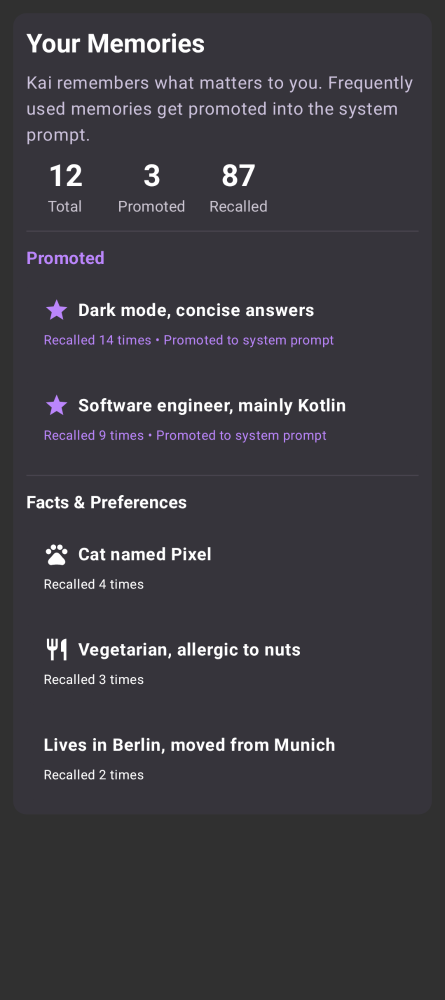
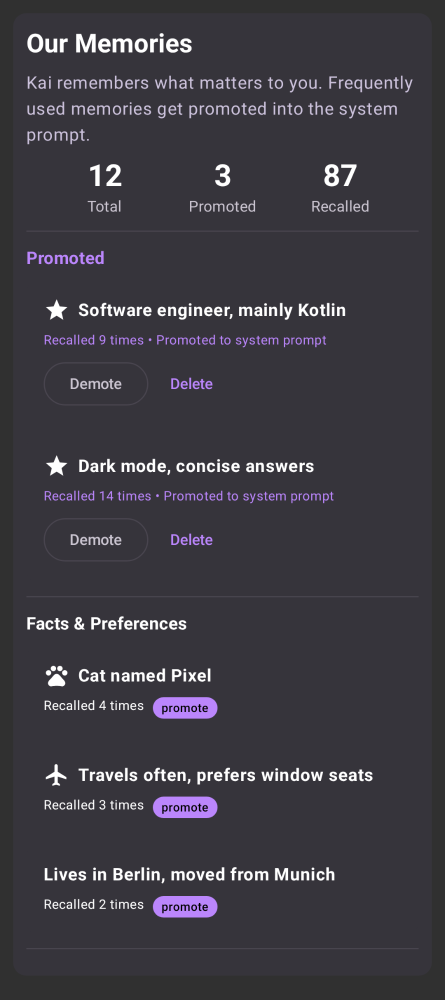
Add image aspect ratio parameter and update screenshot automatization

diff --git a/composeApp/src/commonTest/kotlin/com/inspiredandroid/kai/ui/dynamicui/KaiUiParserTest.kt b/composeApp/src/commonTest/kotlin/com/inspiredandroid/kai/ui/dynamicui/KaiUiParserTest.kt
@@ -1017,6 +1017,44 @@ class KaiUiParserTest {
     }
 
     @Test
+    fun `parses image with aspectRatio`() {
+        val node = parseSingleNode(
+            """{"type":"image","url":"https://example.com/a.jpg","aspectRatio":1.78}""",
+        )
+        val image = assertIs<ImageNode>(node)
+        assertEquals(1.78f, image.aspectRatio)
+        assertNull(image.height)
+    }
+
+    @Test
+    fun `parses image with snake_case aspect_ratio`() {
+        val node = parseSingleNode(
+            """{"type":"image","url":"https://example.com/a.jpg","aspect_ratio":1.5}""",
+        )
+        val image = assertIs<ImageNode>(node)
+        assertEquals(1.5f, image.aspectRatio)
+    }
+
+    @Test
+    fun `parses image with integer aspectRatio`() {
+        val node = parseSingleNode(
+            """{"type":"image","url":"https://example.com/a.jpg","aspectRatio":2}""",
+        )
+        val image = assertIs<ImageNode>(node)
+        assertEquals(2.0f, image.aspectRatio)
+    }
+
+    @Test
+    fun `legacy image without aspectRatio has null`() {
+        val node = parseSingleNode(
+            """{"type":"image","url":"https://example.com/a.jpg","height":160}""",
+        )
+        val image = assertIs<ImageNode>(node)
+        assertEquals(160, image.height)
+        assertNull(image.aspectRatio)
+    }
+
+    @Test
     fun `coerces nested objects in CallbackAction data to primitives`() {
         // Covered indirectly by the "non-composite + JsonObject → primitive" rule inside
         // the data object. Verifies recursion walks into data correctly.

diff --git a/composeApp/src/commonMain/kotlin/com/inspiredandroid/kai/ui/dynamicui/KaiUiRenderer.kt b/composeApp/src/commonMain/kotlin/com/inspiredandroid/kai/ui/dynamicui/KaiUiRenderer.kt
@@ -12,6 +12,7 @@ import androidx.compose.foundation.horizontalScroll
 import androidx.compose.foundation.indication
 import androidx.compose.foundation.interaction.MutableInteractionSource
 import androidx.compose.foundation.layout.Arrangement
+import androidx.compose.foundation.layout.aspectRatio
 import androidx.compose.foundation.layout.Box
 import androidx.compose.foundation.layout.Column
 import androidx.compose.foundation.layout.ExperimentalLayoutApi
@@ -560,9 +561,13 @@ private fun RenderSelect(
 
 @Composable
 private fun RenderImage(node: ImageNode) {
-    val modifier = Modifier.fillMaxWidth().then(
-        if (node.height != null) Modifier.height(node.height.dp) else Modifier,
-    )
+    val modifier = if (node.aspectRatio != null && node.aspectRatio > 0f) {
+        Modifier.fillMaxWidth().aspectRatio(node.aspectRatio.coerceIn(0.1f, 10f))
+    } else {
+        Modifier.fillMaxWidth().then(
+            if (node.height != null) Modifier.height(node.height.dp) else Modifier,
+        )
+    }
     val previewBitmap = LocalPreviewImages.current[node.url]
     if (previewBitmap != null) {
         Image(
@@ -576,6 +581,7 @@ private fun RenderImage(node: ImageNode) {
             model = node.url,
             contentDescription = node.alt,
             modifier = modifier.clip(RoundedCornerShape(6.dp)),
+            contentScale = ContentScale.Crop,
         )
     }
 }

diff --git a/composeApp/src/commonMain/kotlin/com/inspiredandroid/kai/ui/dynamicui/KaiUiNodeBuilders.kt b/composeApp/src/commonMain/kotlin/com/inspiredandroid/kai/ui/dynamicui/KaiUiNodeBuilders.kt
@@ -414,6 +414,8 @@ private fun parseImageNode(obj: JsonObject): ImageNode = ImageNode(
     url = obj.readString("url").ifEmpty { obj.readString("src") },
     alt = obj.readNullableString("alt"),
     height = obj.readNullableInt("height"),
+    aspectRatio = obj.readNullableFloat("aspectRatio")
+        ?: obj.readNullableFloat("aspect_ratio"),
 )
 
 private fun parseIconNode(obj: JsonObject): IconNode = IconNode(

diff --git a/composeApp/src/commonMain/kotlin/com/inspiredandroid/kai/ui/dynamicui/KaiUiNode.kt b/composeApp/src/commonMain/kotlin/com/inspiredandroid/kai/ui/dynamicui/KaiUiNode.kt
@@ -65,6 +65,7 @@ data class ImageNode(
     val url: String = "",
     val alt: String? = null,
     val height: Int? = null,
+    val aspectRatio: Float? = null,
 ) : KaiUiNode
 
 // --- Interactive nodes ---

diff --git a/docs/features/dynamic-ui.md b/docs/features/dynamic-ui.md
@@ -1,6 +1,6 @@
 # Dynamic UI (kai-ui)
 
-**Last verified:** 2026-04-07 (callback prompt clarification)
+**Last verified:** 2026-04-07 (image aspectRatio support)
 
 AI-generated interactive UI layouts rendered inline in chat messages. The AI produces JSON-based layout definitions wrapped in `kai-ui` code fences. Compose renders them natively with support for forms, buttons, and multi-step flows. Enabled by default; users can disable it in Settings, which removes the instructions from the system prompt. Change applies to new conversations. Parsing and rendering stay active regardless so existing messages with kai-ui blocks always render.
 
@@ -13,7 +13,7 @@ A `kai-ui` code fence inside an assistant message contains a JSON object describ
 ### Component Types
 
 - **Layout**: column, row, card, box, divider (spacing between children is fixed by the renderer — the LLM does not control it)
-- **Content**: text (with headline/title/body/caption styles), image, icon (curated material icon set or any emoji), code (syntax-highlighted block)
+- **Content**: text (with headline/title/body/caption styles), image (optional aspect ratio to prevent distortion on wide screens), icon (curated material icon set or any emoji), code (syntax-highlighted block)
 - **Interactive**: button (filled/outlined/text/tonal variants), text input, checkbox, switch, select dropdown, radio group, slider, chip group (single-select, multi-select, or display-only tags)
 - **Feedback**: progress (determinate/indeterminate), countdown (relative duration with optional expiry action), alert (info/success/warning/error)
 - **Navigation**: tabs (tabbed content), accordion (collapsible sections)
